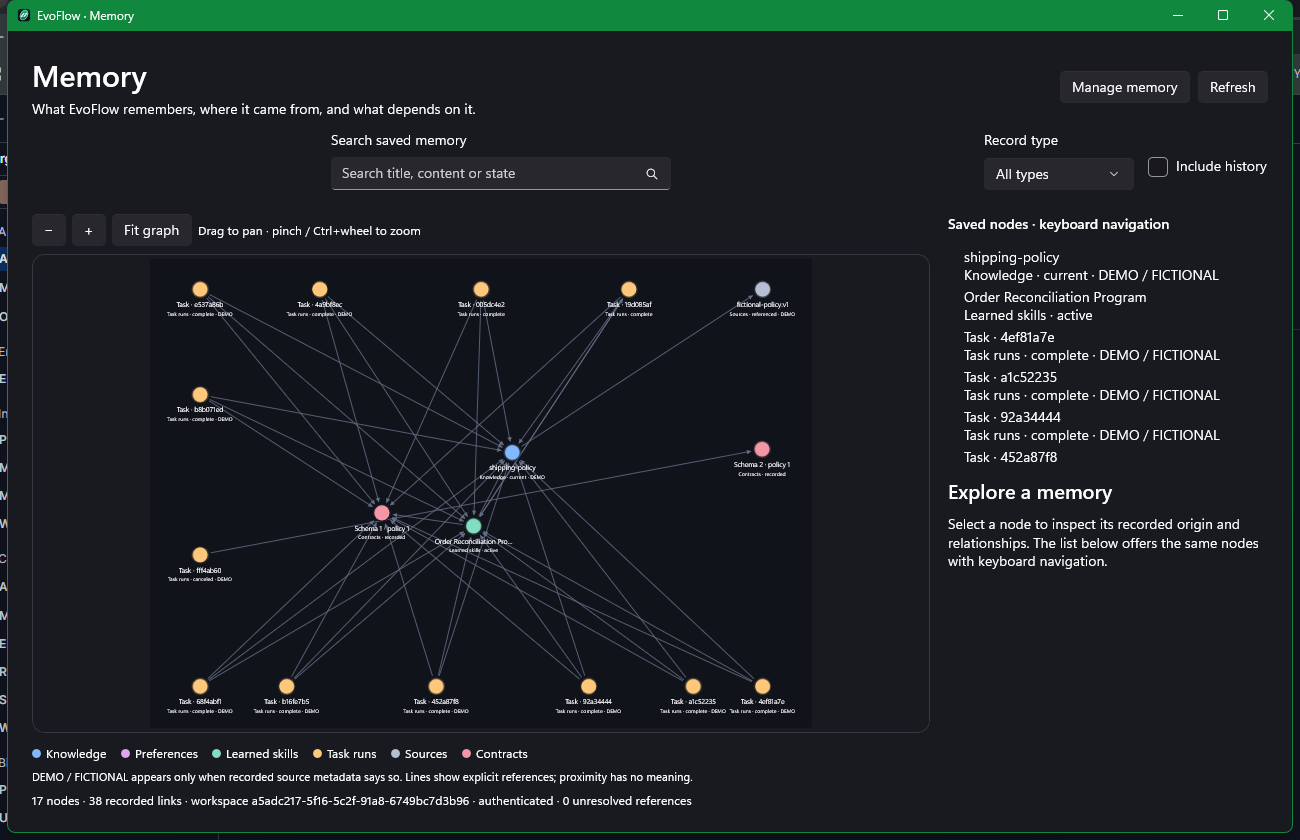
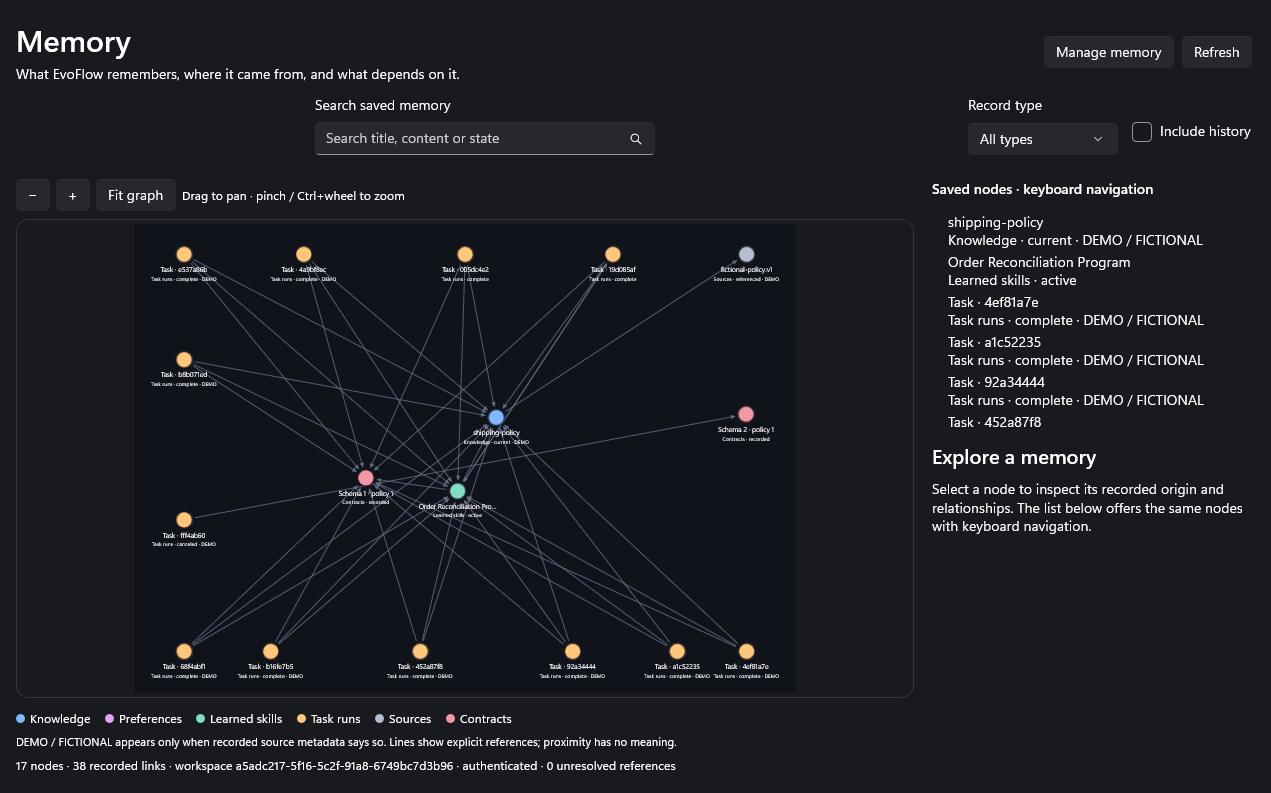
docs: feature native memory graph screenshot

diff --git a/README.md b/README.md
@@ -4,7 +4,7 @@
 <p align="center">WinUI 3 · Python / LangGraph · Local execution · Supabase · Optional LangSmith</p>
 <p align="center">
   <a href="#quick-demo">Watch demo</a> · <a href="#meet-evoflow">Tour</a> ·
-  <a href="#workflow-evolution">Evolution</a> ·
+  <a href="#memory-and-brain-graph">Memory graph</a> · <a href="#workflow-evolution">Evolution</a> ·
   <a href="#set-up-with-your-agent">Agent setup</a> · <a href="#run-from-source">Manual setup</a> ·
   <a href="#validation">Build & test</a> ·
   <a href="#evidence-and-boundaries">Evidence</a>
@@ -50,15 +50,23 @@ and Quit. Windows controls whether its icon appears beside the clock or in overf
 | Optional monitoring | Metadata-only LangSmith traces with run/session correlation and provider usage receipts. |
 
 <details>
-<summary><strong>More of the real native interface</strong></summary>
+<summary><strong>Native Settings</strong></summary>
 
-<p><img src="docs/images/native-memory.png" width="1000" alt="Native Memory explorer showing saved records and recorded relationships"></p>
 <p><img src="docs/images/native-settings.png" width="520" alt="Separate native EvoFlow Settings window"></p>
 
 These are captures of the running Windows application. The graph represents
 saved records and recorded links. See [capture provenance and checks](docs/BRANDING-MONITORING-VERIFICATION-2026-10-31.md).
 
 </details>
+
+## Memory and brain graph
+
+[![EvoFlow Memory explorer: knowledge, learned skills, task runs, sources and contracts connected by recorded relationships.](docs/images/native-memory.png)](docs/images/native-memory.png)
+
+See what EvoFlow remembers, where it came from, and what depends on it. Search
+and filter saved records, pan or zoom the graph, and select a node to inspect its
+provenance. Lines represent recorded relationships; demo/fictional records are
+labeled in the interface. Click the screenshot to view it at full size.
 
 ## Workflow evolution
 
